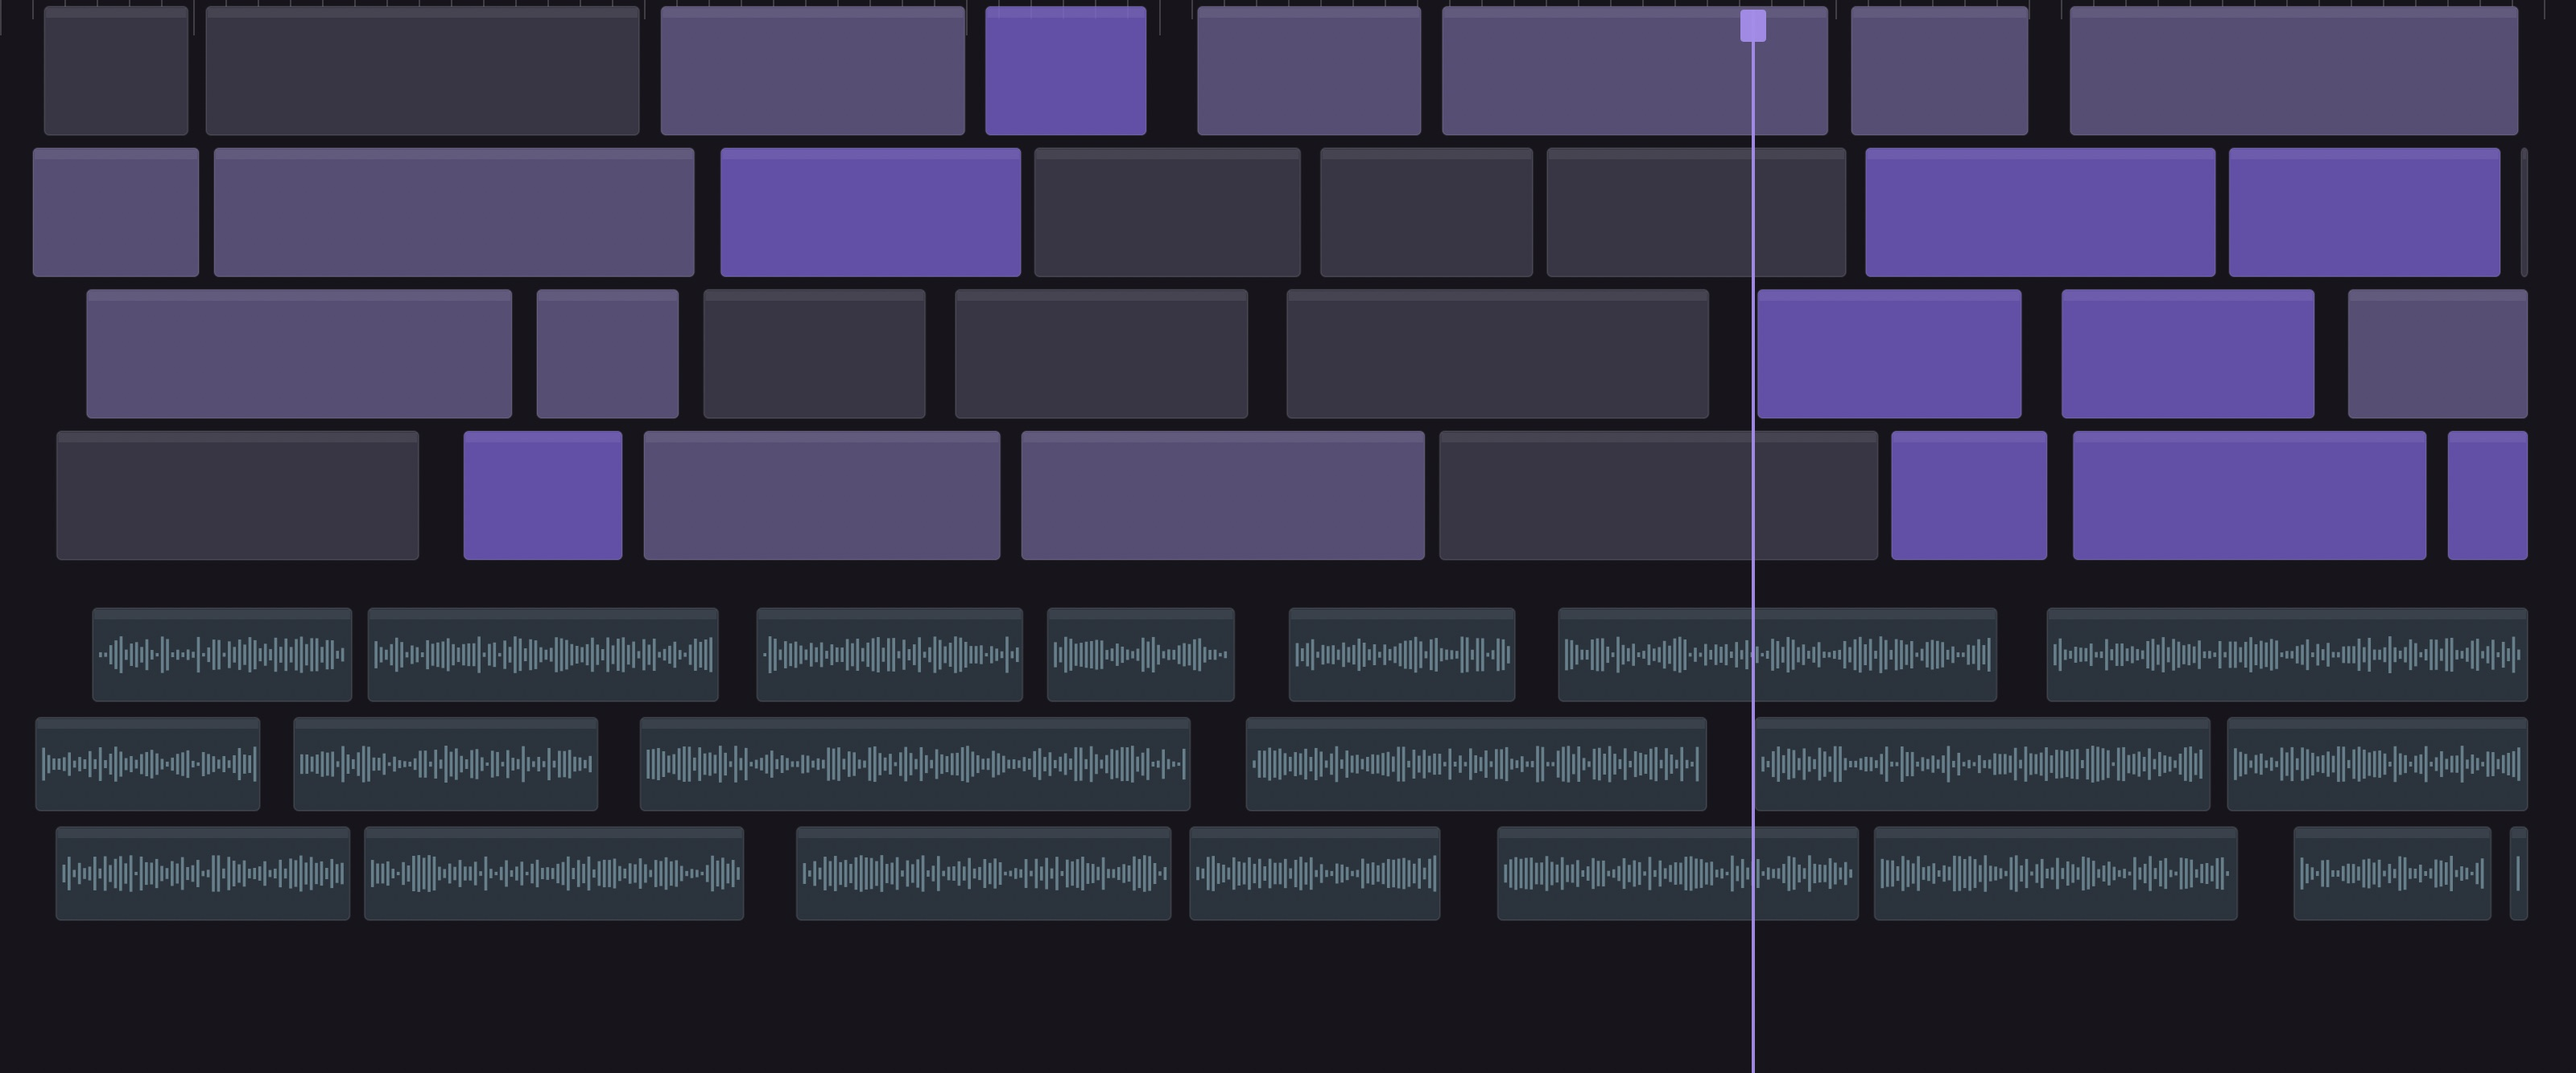
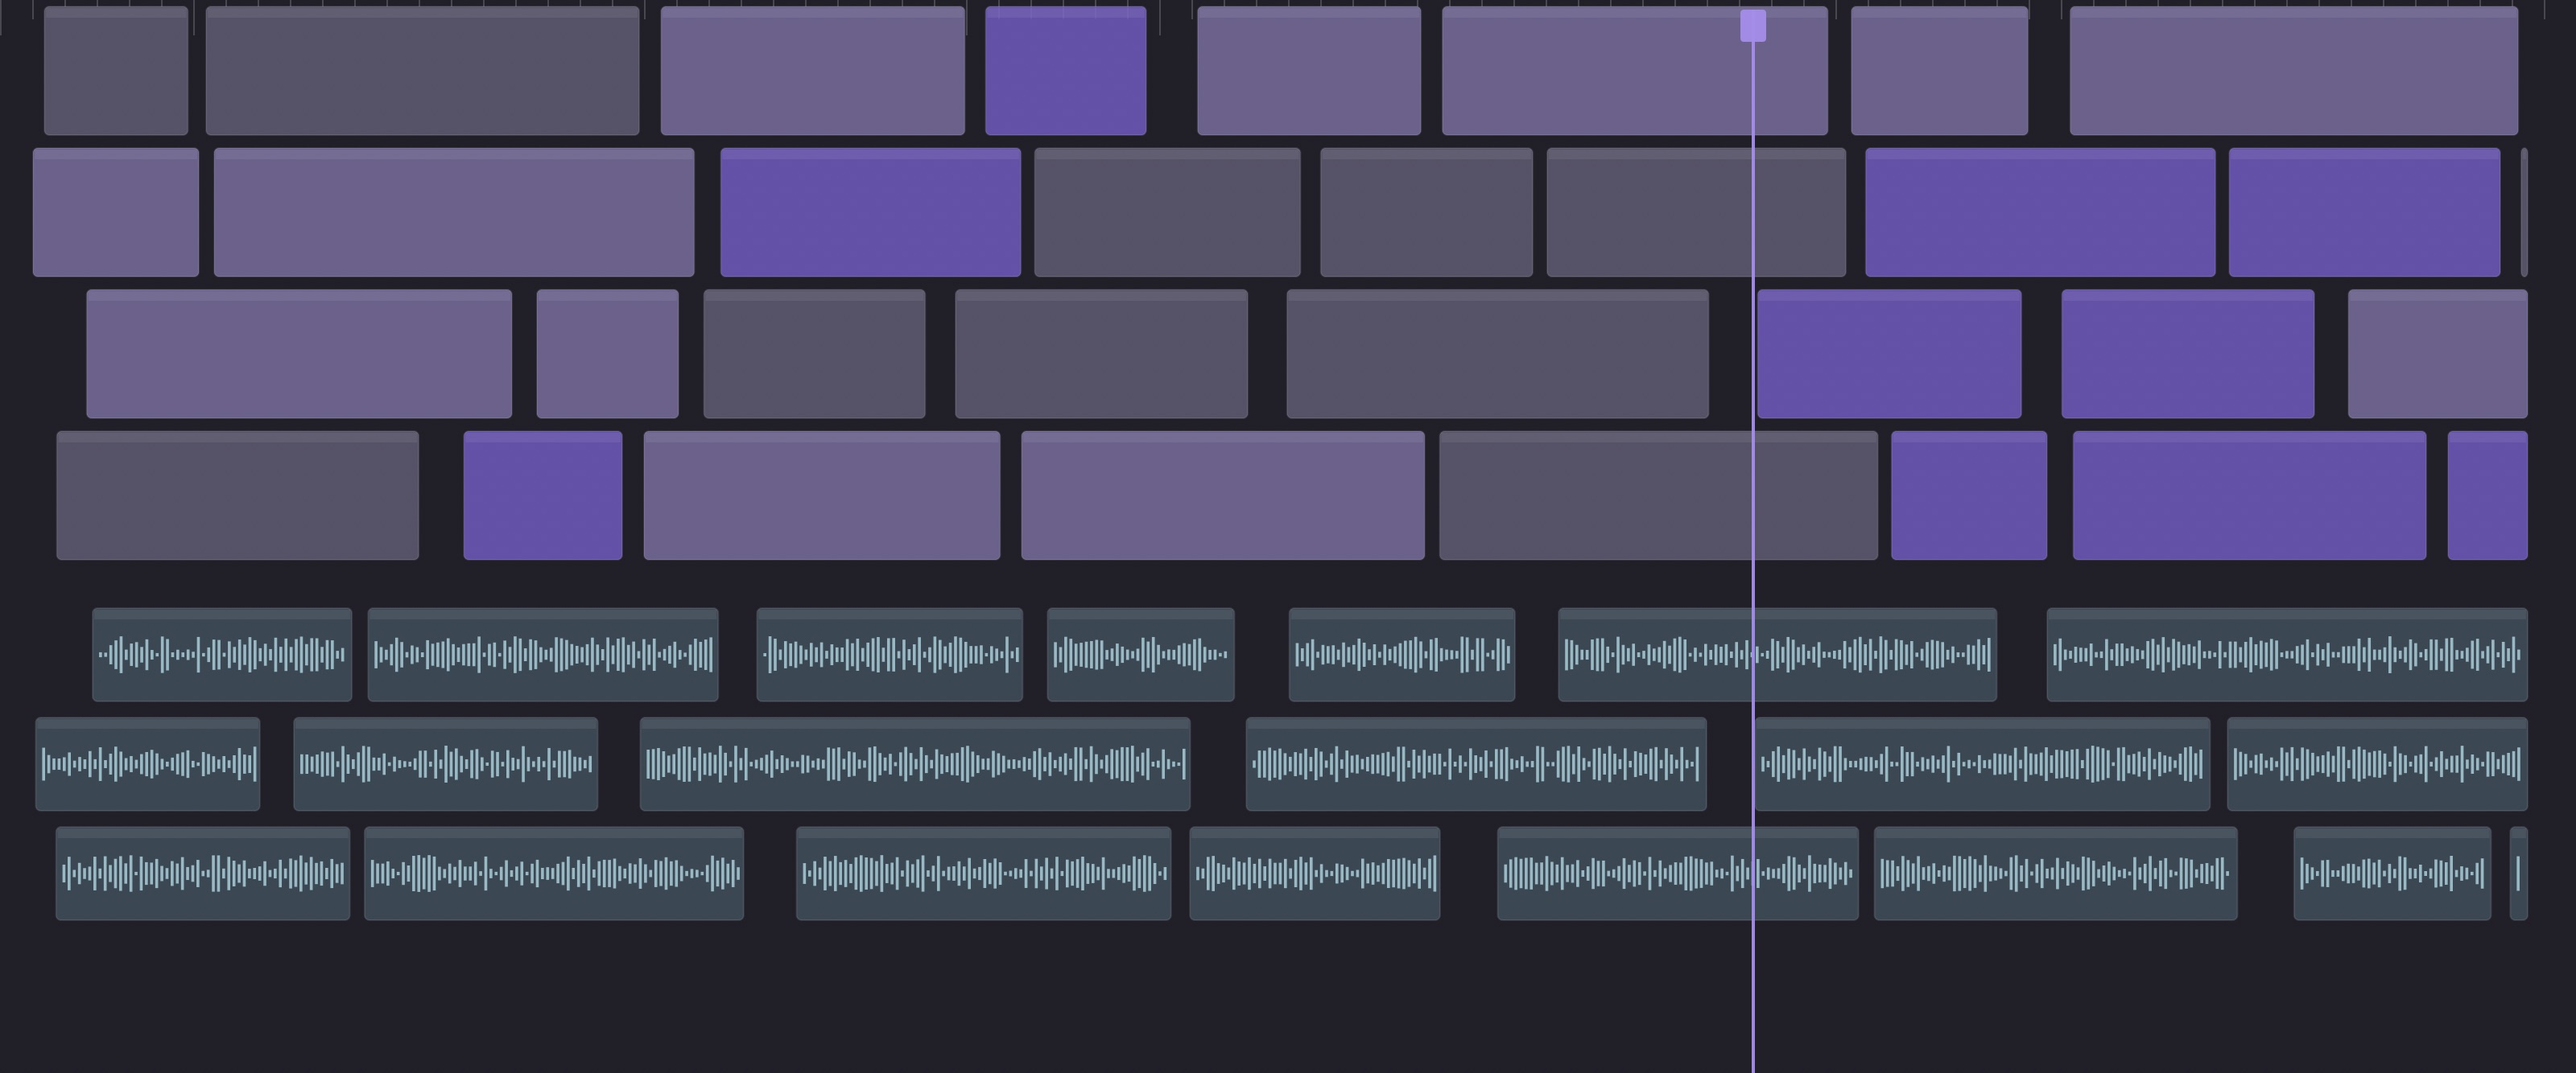
Make the hero timeline actually visible
It was present and correctly wired the whole time — just invisible. The
overlay left only 36% of an already near-black image showing on the
right, and 4% behind the headline, so the hero read as a plain gradient.

Two changes: the timeline is drawn brighter (lighter ground, lighter
clip bodies, stronger waveforms), and the darkening gradients drop from
.45/.25 to .16/.08 on the right. 77% of the image now shows there, while
the area behind "MADE IN THE EDIT" stays dark for contrast.

Claude-Session: https://claude.ai/code/session_018TK6EAQYqQA5nZZBtGK1QY

diff --git a/assets/timeline_art.swift b/assets/timeline_art.swift
@@ -9,7 +9,7 @@ func rnd() -> Double { seed = seed &* 6364136223846793005 &+ 1442695040888963407
 
 let img = NSImage(size: NSSize(width: W, height: H))
 img.lockFocus()
-NSColor(srgbRed: 0.09, green: 0.08, blue: 0.11, alpha: 1).setFill()
+NSColor(srgbRed: 0.13, green: 0.12, blue: 0.16, alpha: 1).setFill()
 NSRect(x: 0, y: 0, width: W, height: H).fill()
 
 // ruler ticks along the top
@@ -23,7 +23,7 @@ while x < W {
 
 let lav = NSColor(srgbRed: 0.45, green: 0.35, blue: 0.77, alpha: 1)
 let lavBright = NSColor(srgbRed: 0.66, green: 0.55, blue: 0.94, alpha: 1)
-let slate = NSColor(srgbRed: 0.22, green: 0.21, blue: 0.27, alpha: 1)
+let slate = NSColor(srgbRed: 0.34, green: 0.32, blue: 0.41, alpha: 1)
 
 func clip(_ x: Double, _ y: Double, _ w: Double, _ h: Double, _ c: NSColor) {
     let p = NSBezierPath(roundedRect: NSRect(x: x, y: y, width: w, height: h), xRadius: 3, yRadius: 3)
@@ -54,8 +54,8 @@ for _ in 0..<3 {
     var cx = 20.0 + rnd() * 60
     while cx < W - 30 {
         let cw = min(110 + rnd() * 240, W - 30 - cx)
-        clip(cx, trackY, cw, 58, NSColor(srgbRed: 0.16, green: 0.20, blue: 0.24, alpha: 1))
-        NSColor(srgbRed: 0.55, green: 0.75, blue: 0.80, alpha: 0.55).setFill()
+        clip(cx, trackY, cw, 58, NSColor(srgbRed: 0.22, green: 0.28, blue: 0.33, alpha: 1))
+        NSColor(srgbRed: 0.68, green: 0.88, blue: 0.92, alpha: 0.75).setFill()
         var wx = cx + 4
         while wx < cx + cw - 4 {
             let a = (2 + rnd() * 21)

diff --git a/assets/site.css b/assets/site.css
@@ -42,8 +42,8 @@
      the darkening layers sit on top of the image, heaviest where the headline is. */
   .hero-reed-media { position: absolute; inset: 0;
     background:
-      linear-gradient(100deg, rgba(19,18,23,.94) 0%, rgba(19,18,23,.80) 32%, rgba(19,18,23,.45) 64%, rgba(19,18,23,.66) 100%),
-      linear-gradient(0deg, rgba(19,18,23,.95) 0%, rgba(19,18,23,.25) 45%, rgba(19,18,23,.55) 100%),
+      linear-gradient(100deg, rgba(19,18,23,.93) 0%, rgba(19,18,23,.70) 30%, rgba(19,18,23,.16) 62%, rgba(19,18,23,.30) 100%),
+      linear-gradient(0deg, rgba(19,18,23,.90) 0%, rgba(19,18,23,.08) 48%, rgba(19,18,23,.26) 100%),
       radial-gradient(120% 90% at 72% 18%, rgba(169,139,239,.28), rgba(27,26,31,0) 55%),
       url('img/hero-timeline.jpg') center/cover no-repeat,
       linear-gradient(180deg, #26232e 0%, #131217 100%);

diff --git a/blog/ai-in-the-edit/index.html b/blog/ai-in-the-edit/index.html
@@ -14,7 +14,7 @@
 <link rel="preconnect" href="https://fonts.googleapis.com">
 <link rel="preconnect" href="https://fonts.gstatic.com" crossorigin>
 <link href="https://fonts.googleapis.com/css2?family=Hanken+Grotesk:wght@400;500;600;700;800;900&display=swap" rel="stylesheet">
-<link rel="stylesheet" href="../../assets/site.css?v=74df84ef">
+<link rel="stylesheet" href="../../assets/site.css?v=89934e9c">
 </head>
 <body>
   <div class="container">

diff --git a/blog/index.html b/blog/index.html
@@ -14,7 +14,7 @@
 <link rel="preconnect" href="https://fonts.googleapis.com">
 <link rel="preconnect" href="https://fonts.gstatic.com" crossorigin>
 <link href="https://fonts.googleapis.com/css2?family=Hanken+Grotesk:wght@400;500;600;700;800;900&display=swap" rel="stylesheet">
-<link rel="stylesheet" href="../assets/site.css?v=74df84ef">
+<link rel="stylesheet" href="../assets/site.css?v=89934e9c">
 </head>
 <body>
   <div class="container">

diff --git a/index.html b/index.html
@@ -21,7 +21,7 @@
 <link rel="preconnect" href="https://fonts.googleapis.com">
 <link rel="preconnect" href="https://fonts.gstatic.com" crossorigin>
 <link href="https://fonts.googleapis.com/css2?family=Hanken+Grotesk:wght@400;500;600;700;800;900&display=swap" rel="stylesheet">
-<link rel="stylesheet" href="assets/site.css?v=74df84ef">
+<link rel="stylesheet" href="assets/site.css?v=89934e9c">
 </head>
 <body>
 

diff --git a/assets/build_blog.py b/assets/build_blog.py
@@ -134,7 +134,7 @@ PAGE = """<!DOCTYPE html>
 <link rel="preconnect" href="https://fonts.googleapis.com">
 <link rel="preconnect" href="https://fonts.gstatic.com" crossorigin>
 <link href="https://fonts.googleapis.com/css2?family=Hanken+Grotesk:wght@400;500;600;700;800;900&display=swap" rel="stylesheet">
-<link rel="stylesheet" href="{root}assets/site.css?v=74df84ef">
+<link rel="stylesheet" href="{root}assets/site.css?v=89934e9c">
 </head>
 <body>
 {header}
